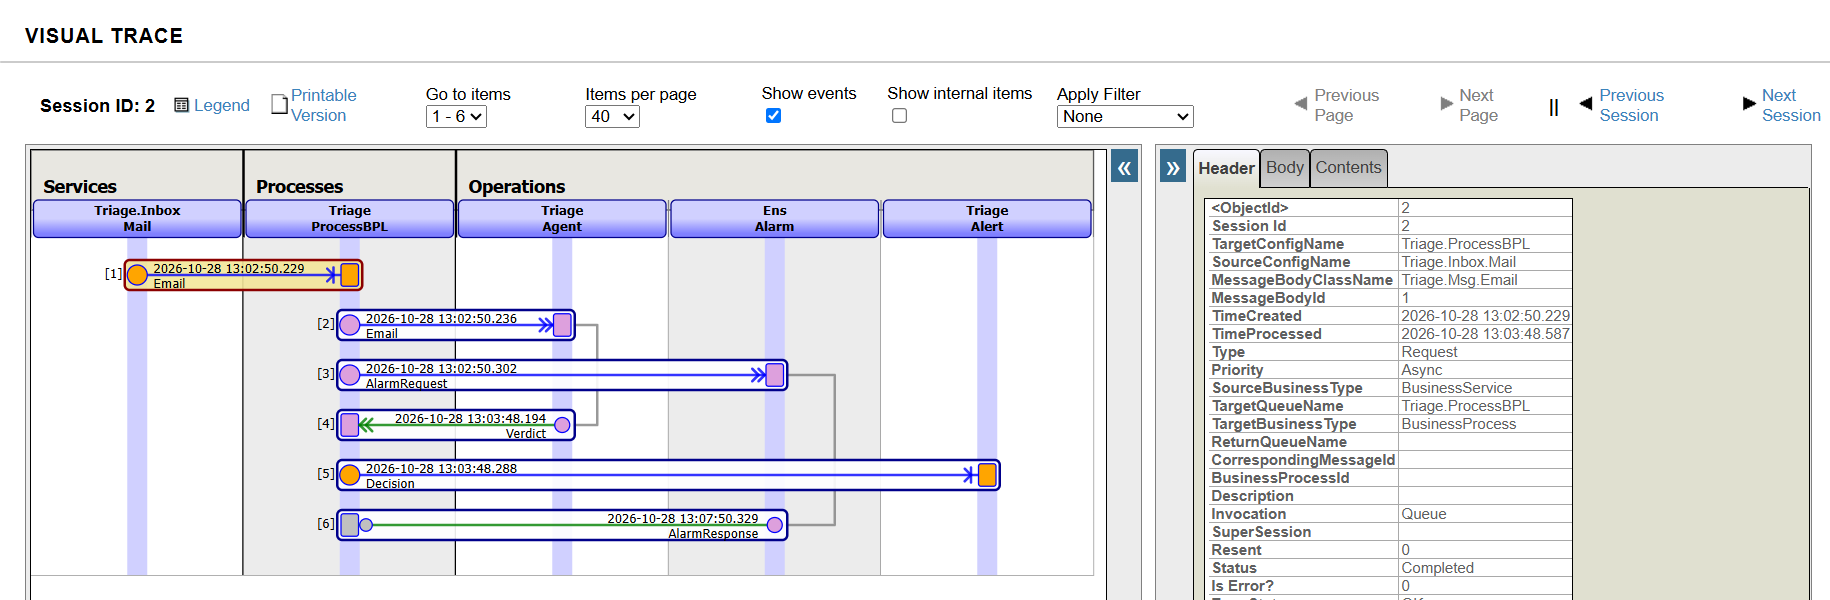
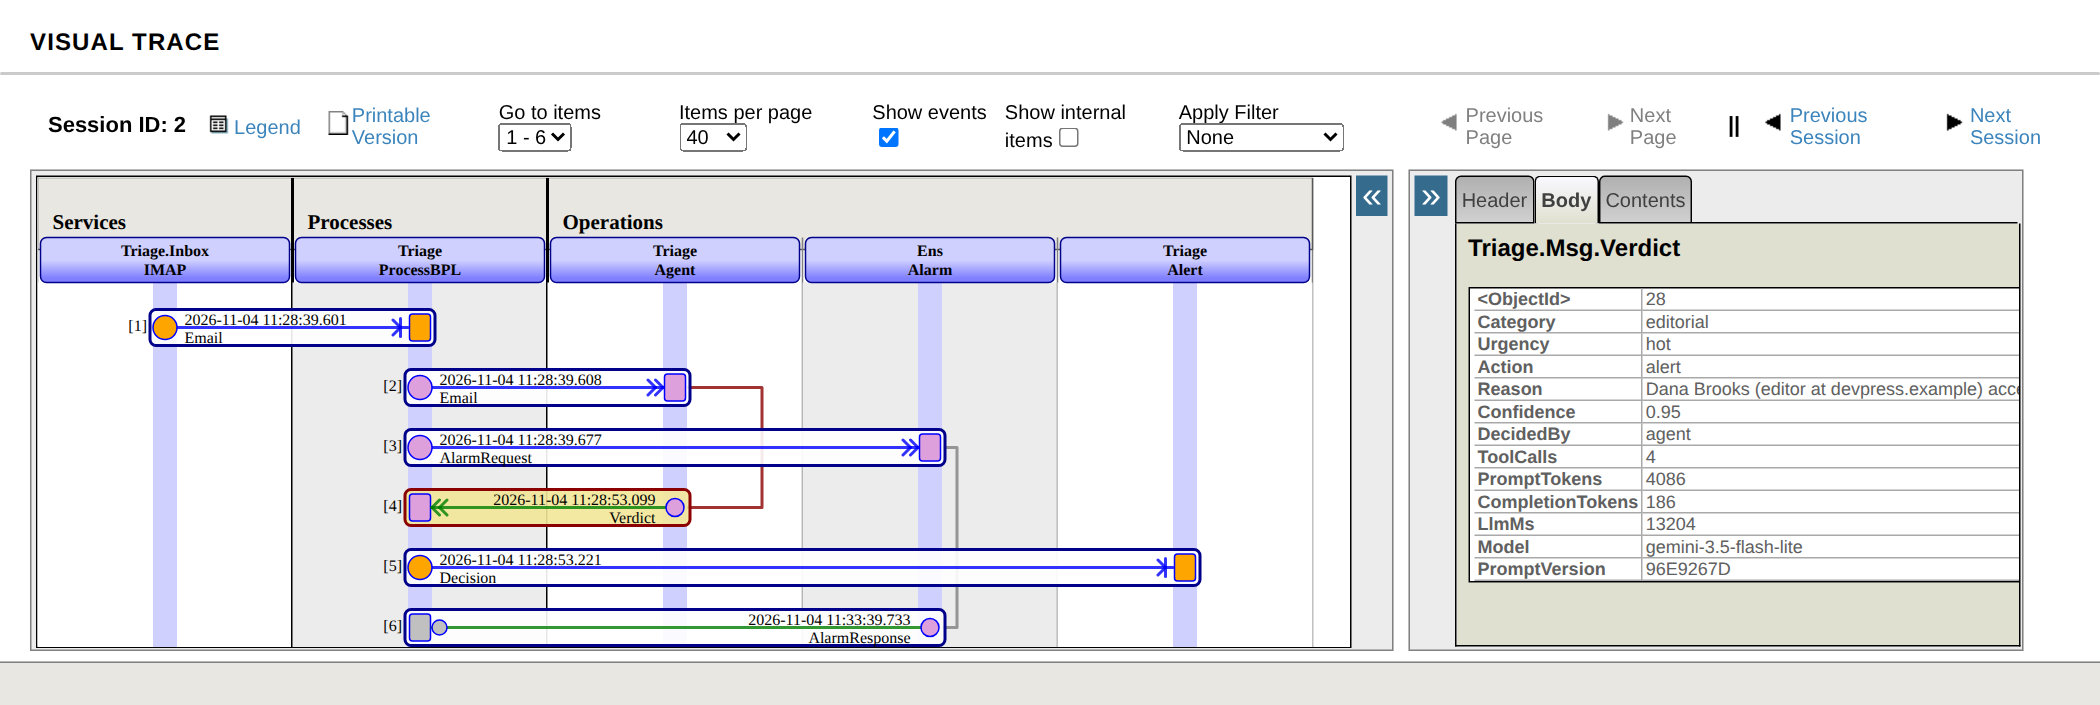
0.5.5: low-confidence decisions reach review in the BPL too; LookupContact matches a domain only for company domains, not for gmail.com and other shared providers; an IMAP poll stays under the IRIS string limit; Seed keeps the contacts already there; trace and BPL screenshots retaken

diff --git a/README.md b/README.md
@@ -37,11 +37,11 @@ Online demo: http://14.225.224.76:8091/ (send a sample or your own email to the 
 2. **Two equivalent processes.** `Triage.Process.TriageBPL` is the workflow in BPL, so the diagram in the Management Portal is the documentation: call the agent, record the decision, branch. `Triage.Process.Triage` is the same workflow in ObjectScript. The mail service targets the BPL process, the folder service the ObjectScript one; both can be re-pointed in the portal.
 
    <img src="docs/bpl.png" alt="The triage workflow in the BPL editor" width="520">
-3. **The agent is a Business Operation.** `Triage.Agent` (`Triage.Operation.Agent`) hosts `Triage.Agent.Classifier`, a declarative `%AI.Agent`: provider `gemini`, model `gemini-3.5-flash-lite`, key from the `GEMINI_API_KEY` environment variable, instructions in the class. Its toolset `Triage.Agent.Tools` gives it two read-only SQL tools, `LookupContact` (known clients, editors, platforms) and `SenderHistory` (earlier decisions for the same domain), and `RecordDecision`, which validates the category, urgency and action. A third lookup, `search_precedents`, comes from an AI Hub knowledge base on IRIS Vector Search (point 8). The operation returns a `Triage.Msg.Verdict` with the decision, the reason, the confidence and the session statistics (tool calls, tokens, LLM time), so each agent run is a request and a response in the message trace.
+3. **The agent is a Business Operation.** `Triage.Agent` (`Triage.Operation.Agent`) hosts `Triage.Agent.Classifier`, a declarative `%AI.Agent`: provider `gemini`, model `gemini-3.5-flash-lite`, key from the `GEMINI_API_KEY` environment variable, instructions in the class. Its toolset `Triage.Agent.Tools` gives it two read-only SQL tools, `LookupContact` (known clients, editors, platforms; by address, or by domain unless it is a shared provider such as gmail.com) and `SenderHistory` (earlier decisions for the same domain), and `RecordDecision`, which validates the category, urgency and action. A third lookup, `search_precedents`, comes from an AI Hub knowledge base on IRIS Vector Search (point 8). The operation returns a `Triage.Msg.Verdict` with the decision, the reason, the confidence and the session statistics (tool calls, tokens, LLM time), so each agent run is a request and a response in the message trace.
 4. **Two policies travel with the toolset.** `Triage.Policy.OneDecision` (`%AI.Policy.Authorization`) lets `RecordDecision` run once per email even if the model tries again. `Triage.Policy.Audit` (`%AI.Policy.Audit`) writes every tool call, with its arguments, result, duration and outcome, to `Triage_Data.ToolCall`, tagged with the email it was made for.
 5. **Failures are the operation's job.** A rate limit, a timeout or a server error from the LLM provider is retried by the operation itself (`RetryInterval` 20 s, `FailureTimeout` 180 s). If the agent still fails, or records nothing, the process falls back to a `review` verdict: the email reaches a person instead of being dropped. In BPL this is a fault handler around the call.
 6. **Three operations act on the decision.** `Triage.Alert` stores urgent mail in `Triage_Data.Alert` and can post it to a webhook. `Triage.Draft` runs a second agent, `Triage.Agent.Writer`, that writes a short reply, stores it in `Triage_Data.Draft` and mails it to the owner's mailbox through `EnsLib.EMail.OutboundAdapter`, ready to edit and send. `Triage.Archive` closes the decision.
-7. **A person decides what the agent could not, on the Workflow Engine.** An email the agent marks `review` goes to `Triage.Review` (in the BPL process so does an `alert` decided with confidence below 0.6; the ObjectScript process sends any decision below 0.6), a BPL process (`Triage.Process.ReviewBPL`) that sends an `EnsLib.Workflow.TaskRequest` to the `Triage Reviewers` role (`EnsLib.Workflow.Operation`). The task shows up in the Workflow Inbox of every member of the role (`_SYSTEM` in the demo) with the agent's verdict, its reason and the start of the email. The reviewer accepts it and picks **Alert**, **Draft** or **Archive**; the process records who decided what (`ReviewedBy`, `ReviewAction`, `ReviewedAt`, next to the agent's own `Action`) and routes the email to that operation, so a draft the person asks for is written by the same writer agent. The classifier is told to hand over an unknown sender who claims an earlier conversation or asks the owner to pay, send bank details, sign or log in.
+7. **A person decides what the agent could not, on the Workflow Engine.** An email the agent marks `review` goes to `Triage.Review` (so does any decision made with confidence below 0.6, whatever its action), a BPL process (`Triage.Process.ReviewBPL`) that sends an `EnsLib.Workflow.TaskRequest` to the `Triage Reviewers` role (`EnsLib.Workflow.Operation`). The task shows up in the Workflow Inbox of every member of the role (`_SYSTEM` in the demo) with the agent's verdict, its reason and the start of the email. The reviewer accepts it and picks **Alert**, **Draft** or **Archive**; the process records who decided what (`ReviewedBy`, `ReviewAction`, `ReviewedAt`, next to the agent's own `Action`) and routes the email to that operation, so a draft the person asks for is written by the same writer agent. The classifier is told to hand over an unknown sender who claims an earlier conversation or asks the owner to pay, send bank details, sign or log in.
 
    <img src="docs/workflow.png" alt="A review task in the Workflow Inbox: the agent's verdict and reason, and the Alert, Draft and Archive actions" width="760">
 8. **A person's decision becomes a precedent (IRIS Vector Search).** `Triage.Agent.Precedents` is an AI Hub knowledge base, `%AI.RAG.KnowledgeBase` over `%AI.RAG.VectorStore.IRIS`: the table `Triage_Data.Precedent` with 384-dimension vectors from the FastEmbed model that ships with AI Hub, so no embedding key or download is needed. The agent operation opens it once, gives the agent its `search_precedents` tool, and indexes every email the agent decides together with the decision. When a person decides an email in the Workflow Inbox, `Triage.Review` sends the decision back to `Triage.Agent`, which re-indexes that email as "Decided by a person in review". The classifier's first rule is to follow such a precedent. In the test run below, the follow-up from a stranger went to review; after it was archived in the Workflow Inbox, the same email sent twice more was archived by the agent with confidence 0.95, and its reason cited the person's decision.
@@ -94,7 +94,7 @@ The build installs IPM and loads the module with `zpm "load"`; the production st
 
 - **Interoperability → View → Messages**: open any `Triage.Msg.Email` and its trace: the agent's request, its verdict with the reason and statistics, and the operation that acted on it.
 
-  <img src="docs/trace.png" alt="Visual Trace of one email: service, BPL process, agent operation, alert" width="760">
+  <img src="docs/trace.png" alt="Visual Trace of one email read over IMAP: service, BPL process, the agent's verdict with its model, tokens and prompt version, the alert" width="760">
 - **Workflow Inbox** at http://localhost:52773/csp/user/_DeepSee.UserPortal.Workflow.zen (the Analytics User Portal; the setup enables Analytics for `/csp/user`): the review task for the unclear email. Click it, **Accept**, then **Alert**, **Draft** or **Archive**. From the command line, `scripts/review.sh` lists the open tasks and `scripts/review.sh Archive` completes them the same way.
 - **Interoperability → Build → Business Processes → Triage.Process.TriageBPL**: the workflow diagram.
 - **Interoperability → Configure → Production**: the running production; the IMAP service shows the server and the mailbox it polls.
@@ -156,7 +156,7 @@ src/cls/Triage/
   Service/MailInbox.cls     POP3 mailbox -> Triage.Msg.Email (MAIL_PROTOCOL=pop3)
   Service/FileInbox.cls     .eml folder  -> Triage.Msg.Email
   Util/Mail.cls             %Net.MailMessage or decoded IMAP mail to Triage.Msg.Email: parts, HTML, attachments
-  Process/TriageBPL.cls     the workflow in BPL (fault handler, switch on the action)
+  Process/TriageBPL.cls     the workflow in BPL (fault handler, switch on the action, review when unsure)
   Process/Triage.cls        the same workflow in ObjectScript
   Process/ReviewBPL.cls     review by a person: Workflow task, the reviewer's choice recorded and routed
   Operation/Agent.cls       hosts the classifier agent; retries transient provider errors
@@ -205,7 +205,7 @@ Built on 2026.3.0AI.154.0 and re-tested on 2027.1.0AI.109.0, where it runs witho
 - Policies declared in the toolset's `<Policies>` block must not carry child elements: the compiler copies a child element of one policy (for example `<PreviewChars>` under `<Audit>`) into the generated code of every policy, and the agent then fails at start with `<PROPERTY DOES NOT EXIST>`. Defaults live in the policy classes instead.
 - `%AI.Policy.Audit.%LogExecution` has to be declared `As %Status`, although the guide shows it without a return type.
 - Free-tier Gemini returns HTTP 429 after about twenty calls in a minute; with four tool calls per email that is a handful of emails. Letting the Business Operation retry (`Retry` plus `RetryInterval` and `FailureTimeout`) handles it without any code in the agent, and the retries are visible in the event log.
-- IRIS has a POP3 adapter but no IMAP one (and no `%Net.IMAP` class), so the IMAP adapter is written in Embedded Python. The raw message, attachments included, is decoded in Python and only the fields cross into ObjectScript: a large message passed as one string would hit the 3.6 MB string limit. IPM installs `python/triage_mail.py` into `mgr/python` with a `FileCopy` resource; that directory is on Embedded Python's `sys.path`.
+- IRIS has a POP3 adapter but no IMAP one (and no `%Net.IMAP` class), so the IMAP adapter is written in Embedded Python. The raw message, attachments included, is decoded in Python and only the fields cross into ObjectScript: a large message passed as one string would hit the 3.6 MB string limit. For the same reason a poll stops before its batch of decoded messages would pass that limit, and the rest are read on the next poll. IPM installs `python/triage_mail.py` into `mgr/python` with a `FileCopy` resource; that directory is on Embedded Python's `sys.path`.
 - The Workflow Inbox lives in the Analytics User Portal, `_DeepSee.UserPortal.Workflow.zen`; with Analytics disabled for the web application it answers "Invalid action". **Interoperability → Manage → Workflow → Workflow Worklist** lists the tasks but has no buttons to act on them. `Triage.Setup` enables Analytics for `/csp/user`.
 - In this build `%AI.RAG.Embedding.FastEmbed.EmbedBatch()` answers "use the Rust bridge directly", so the bundled embedding model is reachable only through `%AI.RAG.KnowledgeBase` (indexing and its search tool), not from ObjectScript. The knowledge base splits text into chunks of a few hundred characters, so each precedent starts with its decision and keeps the email short: otherwise the chunk a search returns may not say what was decided.
 - A knowledge-base tool added with `AddToAgent()` is not covered by the policies declared in the toolset. The agent's tool manager takes an audit policy of its own (`SetAuditPolicy`), but that one sees the toolset's tools too, and they were logged twice; the copy attached there logs only `search_` tools (`Triage.Policy.Audit.ToolPrefix`).
